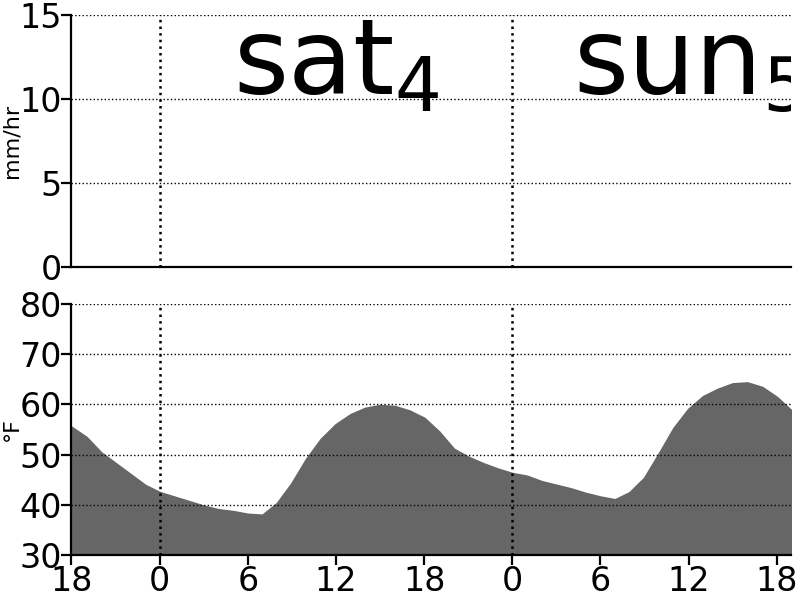
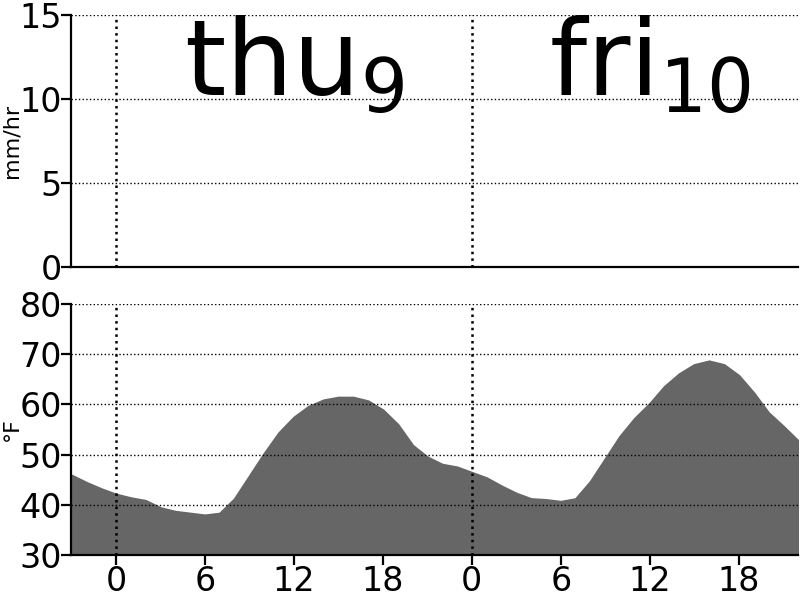
fix subscript for multidigit numbers

diff --git a/main.py b/main.py
@@ -79,11 +79,10 @@ def parse_weather(d: dict, duration: int) -> Weather:
 def get_weather(
     user_agent: str | None, duration: int, lat: float, lon: float
 ) -> Weather:
-    example_path = Path("example_weather.json")
-    if example_path.exists():
-        with example_path.open() as f:
+    cache_path = Path("example_weather.json")
+    if user_agent is None:
+        with cache_path.open() as f:
             return parse_weather(json.load(f), duration)
-    assert user_agent is not None
     response = requests.get(
         url="https://api.met.no/weatherapi/locationforecast/2.0/complete",
         headers={
@@ -96,7 +95,7 @@ def get_weather(
     )
     response.raise_for_status()
     response_json = response.json()
-    with example_path.open("w") as f:
+    with cache_path.open("w") as f:
         json.dump(response_json, f)
     return parse_weather(response_json, duration)
 
@@ -113,7 +112,7 @@ def plot(
 ) -> Path:
     dpi = 200
     fig = Figure(figsize=(width / dpi, height / dpi), dpi=dpi, layout="compressed")
-    fig.get_layout_engine().set(w_pad=0.01, h_pad=0.01, wspace=0, hspace=0)
+    fig.get_layout_engine().set(w_pad=0.01, h_pad=0.01, wspace=0, hspace=0)  # ty: ignore
     NUM_ROW = 2
     NUM_COL = 1
 
@@ -158,12 +157,12 @@ def plot(
             )
             while noon <= weather.time[-1]:
                 if noon >= weather.time[0]:
-                    day_name = noon.strftime('%a').lower()
+                    day_name = noon.strftime("%a").lower()
                     day_number = str(noon.day)
                     ax.text(
                         x=noon,  # ty: ignore[invalid-argument-type]
                         y=hi,
-                        s=r"$\text{" + day_name + r"}_" + day_number + "$",
+                        s=r"$\text{" + day_name + r"}_{" + day_number + "}$",
                         verticalalignment="top",
                         horizontalalignment="center",
                         fontsize=38,
